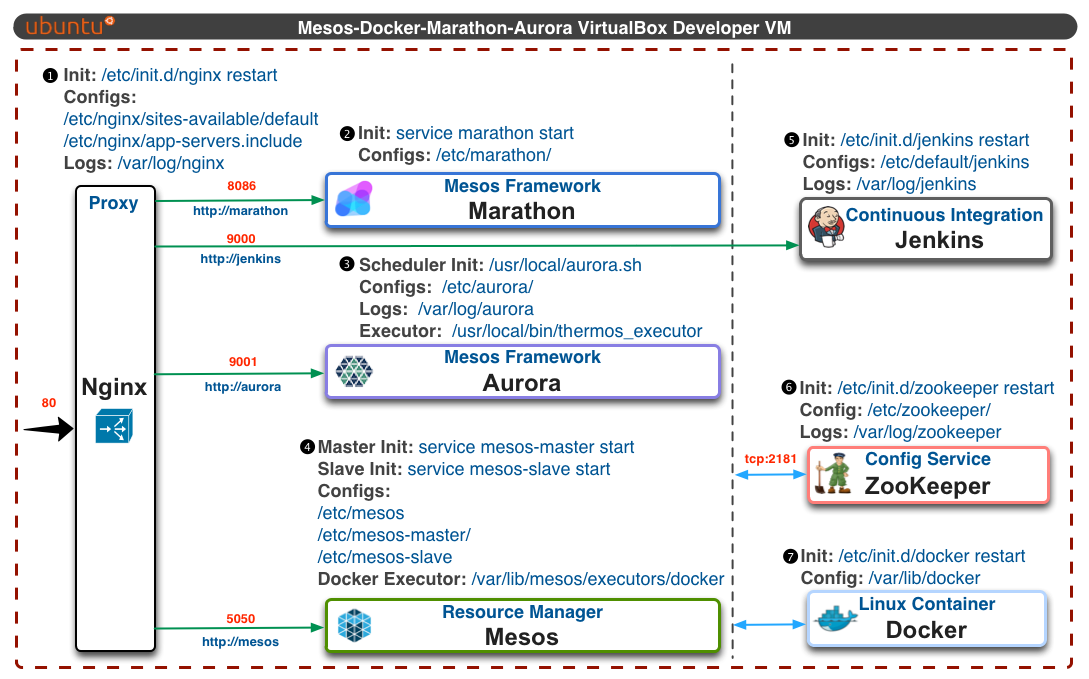
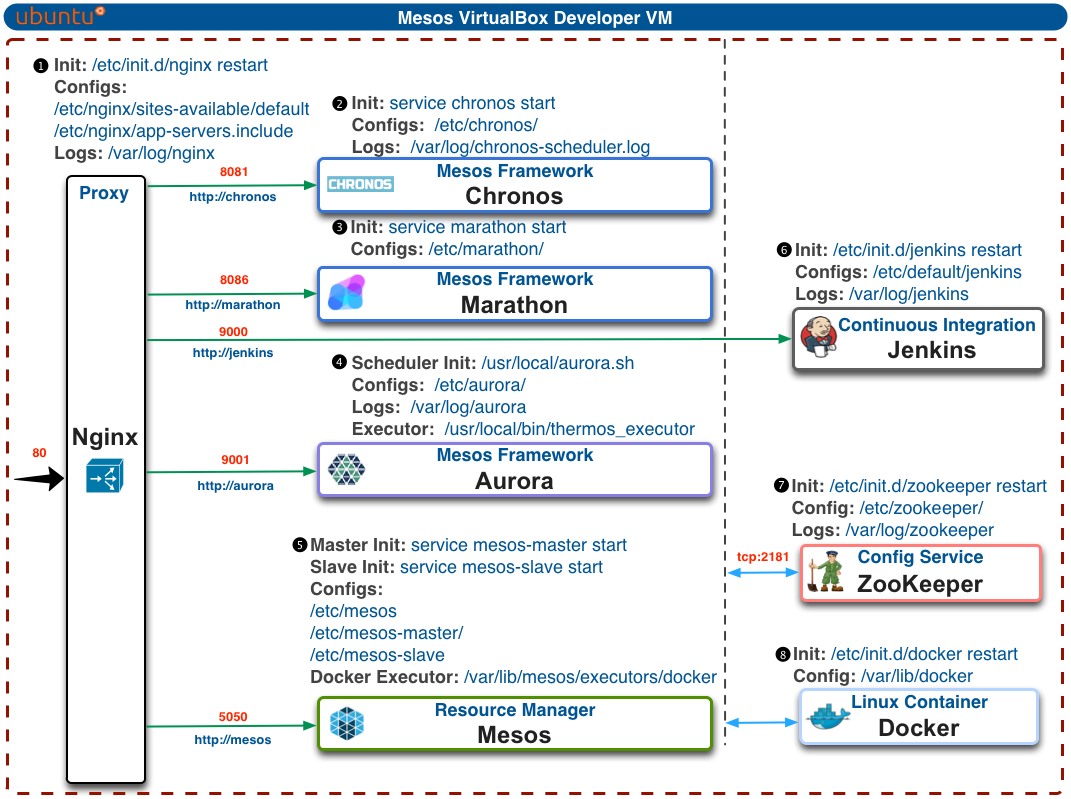
Adding the Chronos scheduler and associated configs

diff --git a/README.md b/README.md
@@ -1,7 +1,7 @@
 vagrant-mesos
 =============
 
-Vagrant dev environent setup with Mesos/Marathon/Aurora/Jenkins/Docker
+Vagrant dev environent setup with Mesos/Marathon/Chronos/Aurora/Jenkins/Docker
 
 ![Vagrant Setup](mesos.png)
 
@@ -27,7 +27,7 @@ The main instance has the following services actively running upon startup and h
 
 #### Additional VMs  ####
 
-Your cluster now effectively has 3 Mesos masters, 3 zookeepers and 3 Mesos slaves (each with Docker installed). Jenkins, Marathon & Aurora are installed on the additional VMs too except that they have been disabled on startup. The additional Mesos instances have been allocated a lesser 2GB RAM each.
+Your cluster now effectively has 3 Mesos masters, 3 zookeepers and 3 Mesos slaves (each with Docker installed). Jenkins, Marathon, Chronos & Aurora are installed on the additional VMs too except that they have been disabled on startup. The additional Mesos instances have been allocated a lesser 2GB RAM each.
 
 	mesos2 ip address: 192.168.56.102
 	mesos3 ip address: 192.168.56.103
@@ -52,25 +52,29 @@ Root SSH Credentials:
 
 Create these entries in the /etc/hosts file on the host machine for quick access to the VMs.
 
-	192.168.56.101	mesos1 jenkins1 marathon1 aurora1
-	192.168.56.102	mesos2 jenkins2 marathon2 aurora2
-	192.168.56.103	mesos3 jenkins3 marathon3 aurora3
+	192.168.56.101	mesos1 jenkins1 marathon1 aurora1 chronos1
+	192.168.56.102	mesos2 jenkins2 marathon2 aurora2 chronos2
+	192.168.56.103	mesos3 jenkins3 marathon3 aurora3 chronos3
 
 An Nginx HTTP proxy server is running on each machine so that you can access the applications on the respective VMs. Only one Mesos master is active at a time so you will be immediately redirected to the leading master.
 
 	Mesos - http://mesos1 | http://mesos2 | http://mesos3
 
-Accessing Jenkins web UI:
+Accessing the Jenkins web UI:
 
 	http://jenkins1
 
-Accessing Marathon web UI
+Accessing the Marathon web UI
 
 	http://marathon1
 
-Accessing Aurora web UI
+Accessing the Aurora web UI
 
 	http://aurora1
+
+Accessing the Chronos web UI
+
+	http://chronos1
 
 #### Destroying VMs ####
 
